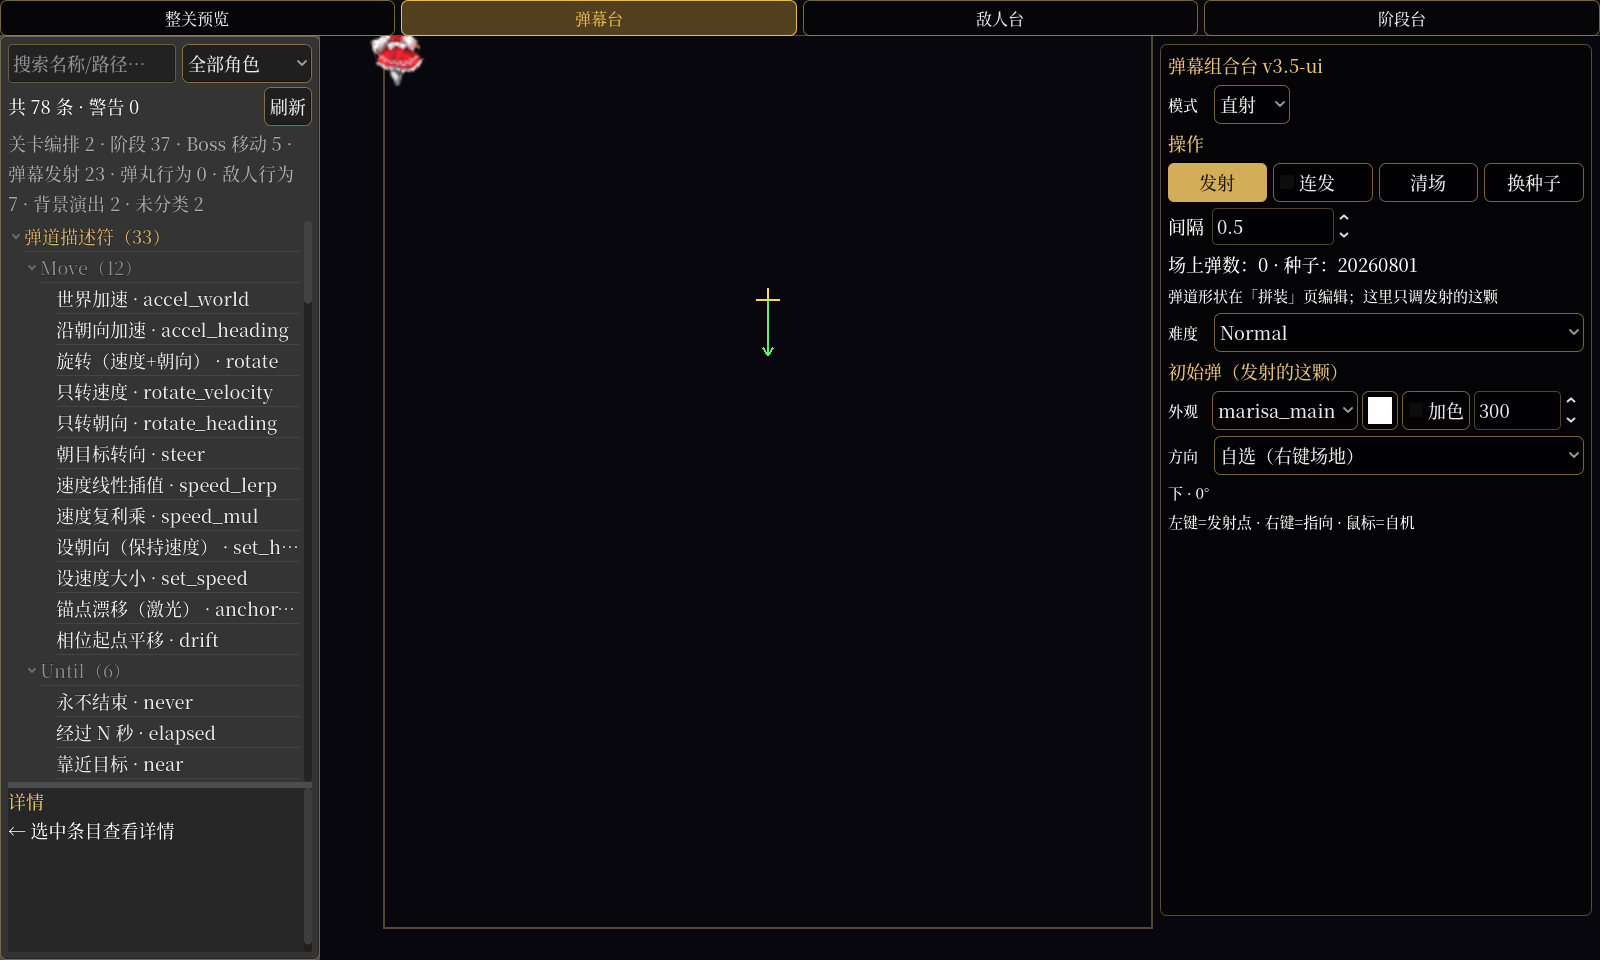
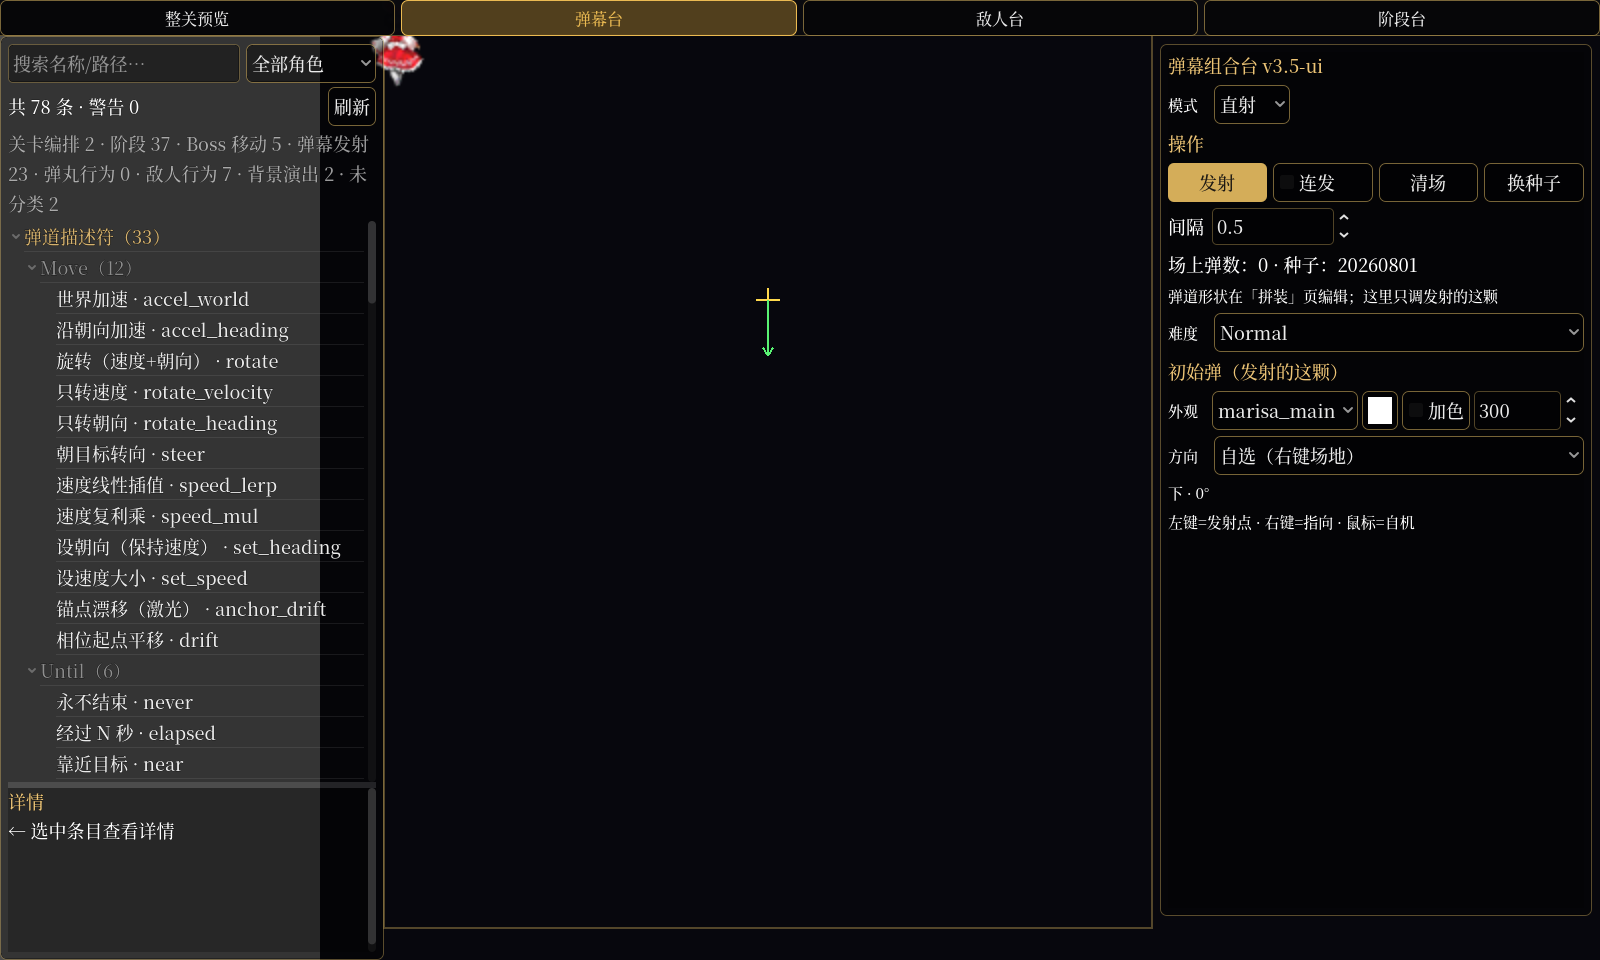
fix(workbench): 目录栏扩到 384，贴住场地金框
- 目录 0..384，场地从 384 开始，目录右侧不再留 64px 黑带
- CatalogDrawer 384 / CatalogPanel 360
- 时间线/场地/右面板仍为 384..1152 / 1160..1592
- 更新 1600/1280/整关预览实拍；全量 832 / 7746

diff --git a/docs/BEST_PRACTICES_LOG.md b/docs/BEST_PRACTICES_LOG.md
@@ -29,7 +29,7 @@
 > 共 33 条（本文件留最近 33 条，其余在 `docs/archive/`；本段由 `tools/log_archive.py` 生成，手改会被覆盖）。
 
 - 2026-10-18 — D6 修正：canvas_transform + bench UI CanvasLayer
-- 2026-10-18 — D6：1600 布局 + 320 常驻左栏
+- 2026-10-18 — D6：1600 布局 + 384 常驻左栏
 - 2026-10-18 — D3 第五批：PreviewPlayback / PreviewBookmarks
 - 2026-10-18 — D3 第四批：PreviewStageLoader
 - 2026-10-18 — 命中框错位：叠加 BulletManager 全局偏移
@@ -74,9 +74,9 @@
 - 1600 目录常驻且隐藏关闭按钮：关闭只会留空白，画布仍需 320 偏移；1280 才显示「目录」按钮作为覆盖抽屉。
 - 全量 832 / 7746，verify 七步全绿。
 
-### 2026-10-18 — D6：1600 布局 + 320 常驻左栏
+### 2026-10-18 — D6：1600 布局 + 384 常驻左栏
 
-- 创作台默认 1600×960：左侧目录 320 常驻，内容 1280（场地 832 + 右面板 440）；1280 自动收起为覆盖抽屉。
+- 创作台默认 1600×960：左侧目录 384 常驻（贴住场地金框），内容 1280（场地 832 + 右面板 440）；1280 自动收起为覆盖抽屉。
 - `content_scale_size` 同步 1600/1280；离开创作台恢复 1280（游戏/工作台 standalone 不受影响）。
 - 三台 bench 与 Workbench 在嵌入时不再把窗口改回 1280（BenchBase `_embedded` / Workbench `_embedded`）。
 - 窗口宽度用 `_process` 轮询兜底（`size_changed` 在 viewport stretch 下可能不触发）。

diff --git a/README.md b/README.md
@@ -134,7 +134,7 @@ grep -rn "关键词" --include="*.gd" scripts/ data/
 - **写代码在 Godot 编辑器**：关卡编排 = stage01.gd（Timeline API）；Boss 弹幕 = PhaseData.tres 显式引用脚本
 - **调参工具**：固定种子（可复现）· 命中框 · 逐帧（F）· 12x 快进跳转 · 书签（静态提取 + 人工打点）
 - 幽灵玩家提供自机狙目标；静音/背景开关/事件日志/实时状态
-- **1600 布局 / 常驻左栏**：1600×960 时左侧 320 目录常驻（不提供关闭按钮）、内容 1280；1280 时自动收起为可开合覆盖抽屉；双击条目直达对应台
+- **1600 布局 / 常驻左栏**：1600×960 时左侧 384 目录常驻（不提供关闭按钮，贴住场地金框）、内容 1280；1280 时自动收起为可开合覆盖抽屉；双击条目直达对应台
 - **弹幕台两种模式**：直射（初始弹外形/方向/发射）· 拼装（初始弹 + A/B 替换弹模板 + Move/Until/Action/Dir → 预览 → 生成/复制代码；目录里有「弹道描述符」组）· 操作四键在两种模式顶部共用
 - **弹幕 / 敌人 / 阶段三个组合台有热更新**（改脚本约 1.3s 自动重载）；**整关预览没有**，改关卡脚本/时间线后重启（切页不再丢进度）
 - **整关预览保活**：切走冻结、切回继续；工作区配置 v2（旧 v1 自动读入，坏数据降级为空）

diff --git a/CONTENT_GUIDE.md b/CONTENT_GUIDE.md
@@ -474,7 +474,7 @@ _bullet.trajectory(_sharp_turn())    # 直接挂，不经端口
 
 | 工具 | 用法 |
 |------|------|
-| **创作台** | F6 `scenes/workbench/creation_station.tscn`：整关预览 / 弹幕台 / 敌人台 / 阶段台；**1600 时左侧 320 目录常驻且不可关（1280 自动收起为可开合抽屉，含「弹道描述符」组）**；弹幕台有 **直射（初始弹外形/方向）/ 拼装（相位 + A/B 模板 + 代码）** 两模式，发射/连发/清场/换种子共用顶部操作栏 |
+| **创作台** | F6 `scenes/workbench/creation_station.tscn`：整关预览 / 弹幕台 / 敌人台 / 阶段台；**1600 时左侧 384 目录常驻且不可关（贴住场地金框）（1280 自动收起为可开合抽屉，含「弹道描述符」组）**；弹幕台有 **直射（初始弹外形/方向）/ 拼装（相位 + A/B 模板 + 代码）** 两模式，发射/连发/清场/换种子共用顶部操作栏 |
 | **对话预览** | `godot --path . scenes/ui/dialogue_preview.tscn -- --func=战斗后`（`--list` 列目录 / `--dry` 无头打印整段 / `--shot=x.png` 截图）—— 不用打关卡就能看对话 |
 | 固定种子 | 播放区开关：重跑弹幕序列可复现（调参必备） |
 | 命中框 | 播放区开关：红=敌弹判定、绿=敌人、青=自机、蓝=擦弹 |

diff --git a/docs/TEST_INDEX.md b/docs/TEST_INDEX.md
@@ -19,7 +19,7 @@
 ./tools/verify.sh --fast                             # 快速冒烟（~8s，不全量）
 ```
 
-**现状**：119 脚本 / **832 用例（832 通过 / 0 红 —— ✅ 全绿）/ 7746 断言 / 56.864s** / 19 orphans / **0 pending**。
+**现状**：119 脚本 / **832 用例（832 通过 / 0 红 —— ✅ 全绿）/ 7746 断言 / 57.101s** / 19 orphans / **0 pending**。
 
 ## 分层
 
